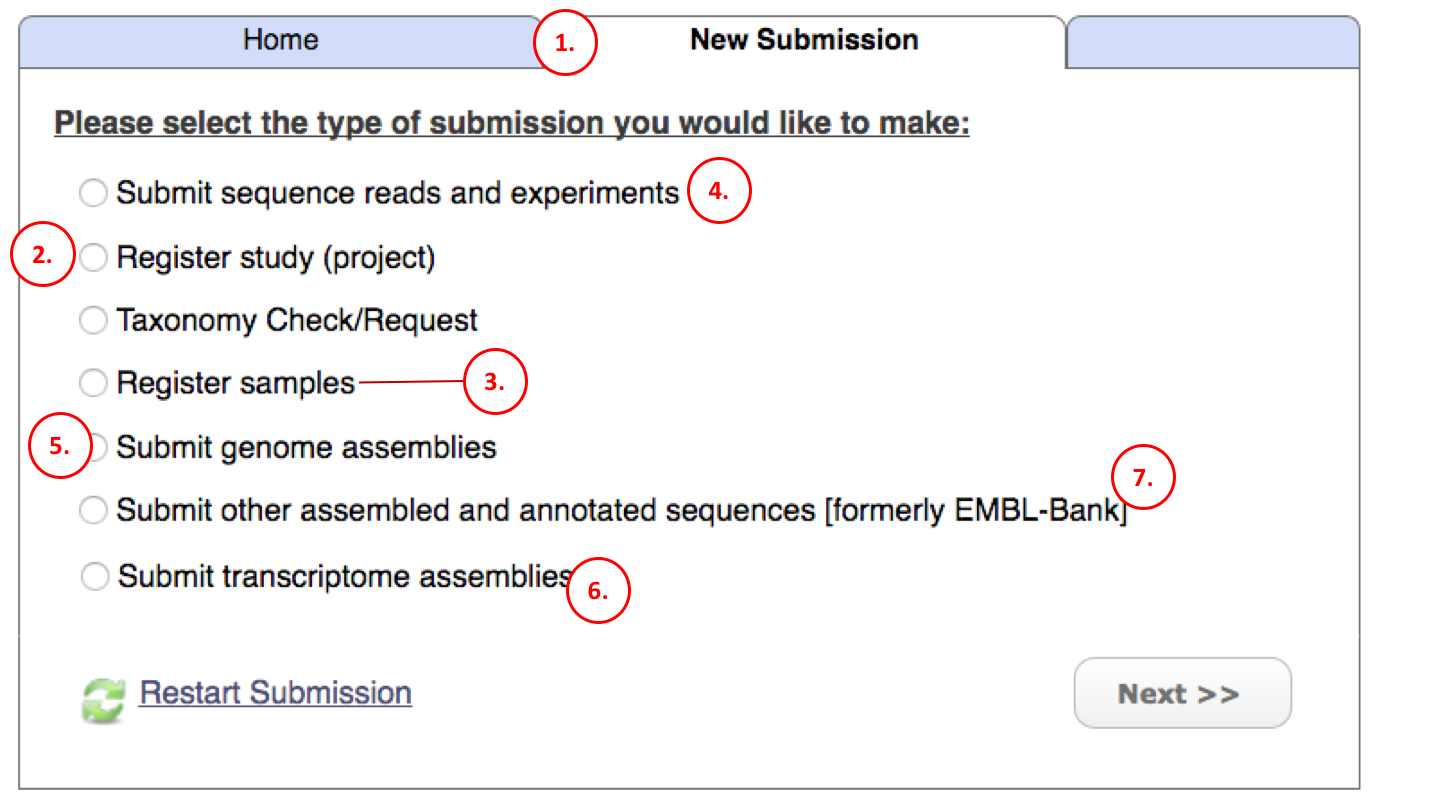
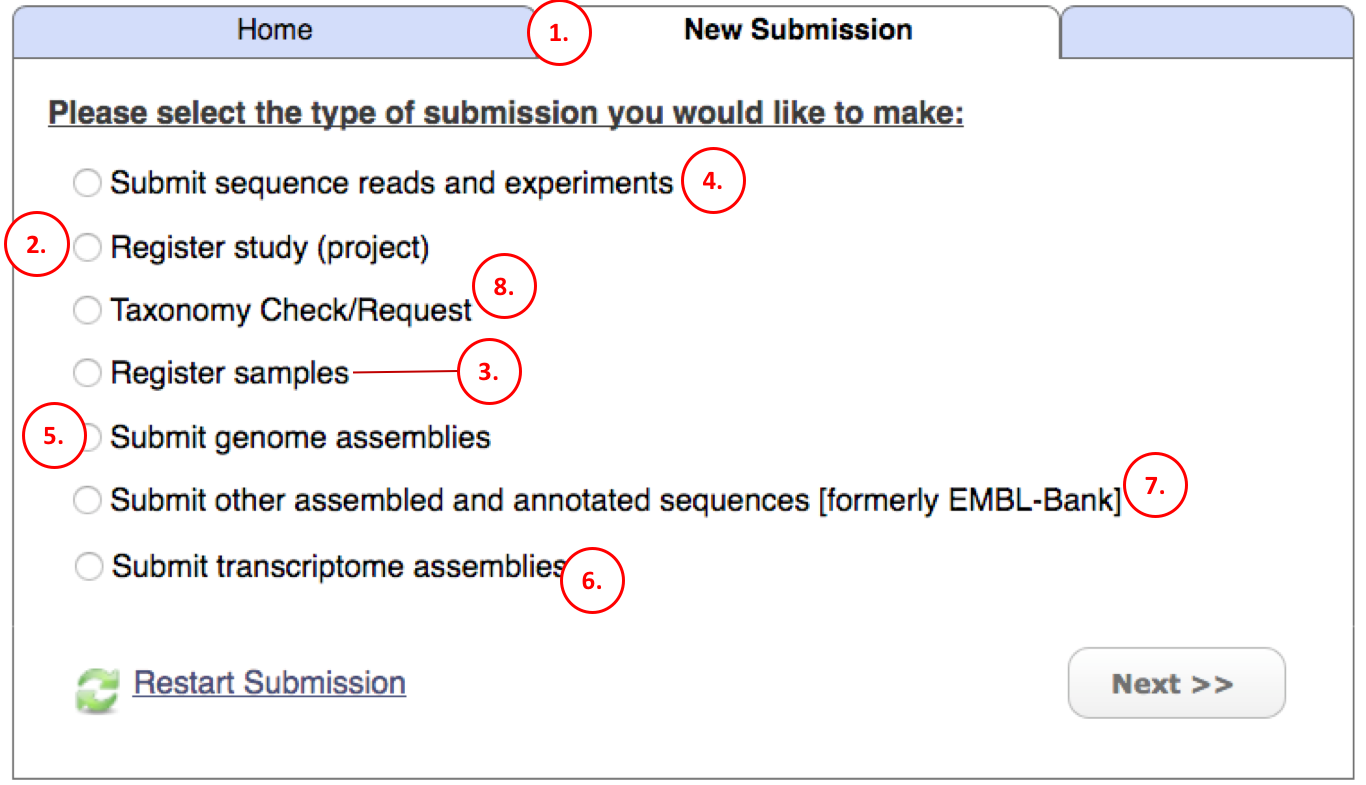
new commit

diff --git a/tax.md b/tax.md
@@ -4,7 +4,7 @@
 
 Every ENA sample object should have a taxonomic classification. The INSDC maintains a database of all unique taxonomy classifications known to us and you should apply one from this database when you create your samples. Each classification has a unique id and this is expanded to show the scientific name and common name of the organism when the sample is viewed.
 
-The [interactive submission service](https://www.ebi.ac.uk/ena/submit/sra/#home) has a look up table which you can use before you download the spreadsheet template so that you already know what taxonomy identifications to apply when you are creating your samples offline.
+The [interactive submission service](https://www.ebi.ac.uk/ena/submit/sra/#home) has a look up table which you can use before you download the spreadsheet template so that you already know what taxonomy identifications to apply when you are creating your samples offline (step 8 in <a href="mod_01.html">module 1</a>). There is also a look up <a href="https://www.ebi.ac.uk/ena/data/warehouse/search?portal=taxon">here</a>, in the taxon domain of the ENA advanced search.
 
 ![webin_tax_look_up](images/tips_p01.png)
 
@@ -97,7 +97,7 @@ curl "www.ebi.ac.uk/ena/data/taxonomy/v1/taxon/suggest-for-submission/marsupial%
   }
 ```
 
-To have an idea of what environmental sample names are available, below is a list. This list is not regularly updated so it may be worth trying the *suggest-for-submission* look up method described <a href="#rest-access-to-the-tax-database">above</a> to see if you can find one that better represents your environmental samples. The following terms go in the scientific name field of the sample object. To find the tax id use the method outlined <a href="#rest-access-to-the-tax-database">above</a> (scientific-name endpoint) . For example you can paste the following into your browser to find the tax id for *termite fungus garden metagenome*: `http://www.ebi.ac.uk/ena/data/taxonomy/v1/taxon/scientific-name/termite fungus garden metagenome`
+To have an idea of what environmental sample names are available, below is a list. 
 
 <div style="height:300px;width:500px;border:1px solid;overflow:auto;">
 Generic
@@ -394,3 +394,10 @@ organismal metagenomes sub nodes
     zebrafish metagenome
 
 </div>
+
+This list is not updated so you should check the <a href="https://www.ebi.ac.uk/ena/data/view/Taxon:408169">ENA tax portal</a> for the most recent additions. Click on the *Tax tree* tab and click the '+' icons to expand the categories:
+
+![metagenome](images/tax_p01.png)
+
+ These environmental terms go in the scientific name field of the sample object. To find the tax id use the method outlined <a href="#rest-access-to-the-tax-database">above</a> (scientific-name endpoint). For example you can paste the following into your browser to find the tax id for *termite fungus garden metagenome*: `http://www.ebi.ac.uk/ena/data/taxonomy/v1/taxon/scientific-name/termite fungus garden metagenome`. 
+

diff --git a/mod_01.rst b/mod_01.rst
@@ -21,9 +21,12 @@ The majority of submissions to the ENA begin `here <https://www.ebi.ac.uk/ena/su
 
 5. Genome submissions require a study and a sample so after step 2 and 3, if you have assembled genomes to submit you can go to Module 6_.
 6. Transcriptome assembly submissions also require a project and samples to be submitted (step 2 and 3 above). The source NGS read data should also be made available to support the transcriptome assembly (step 4 above). After that go to Module 10_ to submit a TSA.
+7. This step is for isolated sequences, for example coding genes and rRNA sequences. More information `here <https://www.ebi.ac.uk/ena/submit/sequence-submission>`_
+8. When submitting sample objects (as in step 3 above) you need to apply a taxonomic classification. Thus your organism (or environmental sample classification) must be registered with a tax id. Use this option to check that your organism has a tax id and if not you can request one from the same webform. For more information about taxonomy there is a section in the FAQ_ that may be useful.
 
 .. _2: mod_02.html
 .. _3: mod_03.html
 .. _4: mod_04.html
 .. _6: mod_06.html
 .. _10: mod_10.html
+.. _FAQ: tax.html
